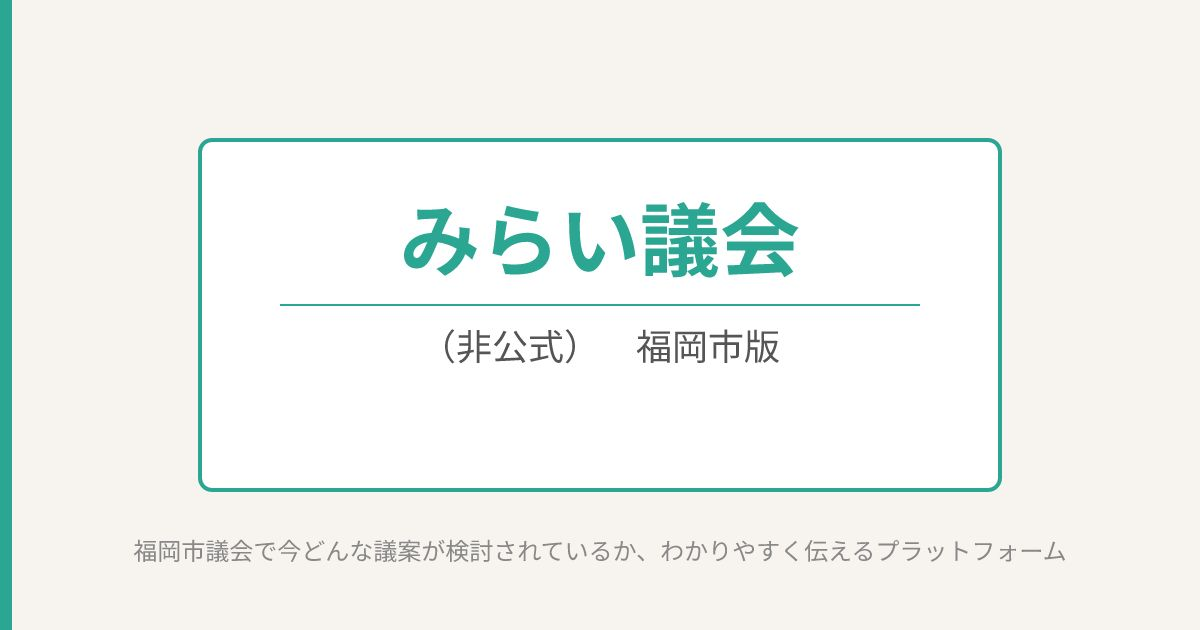
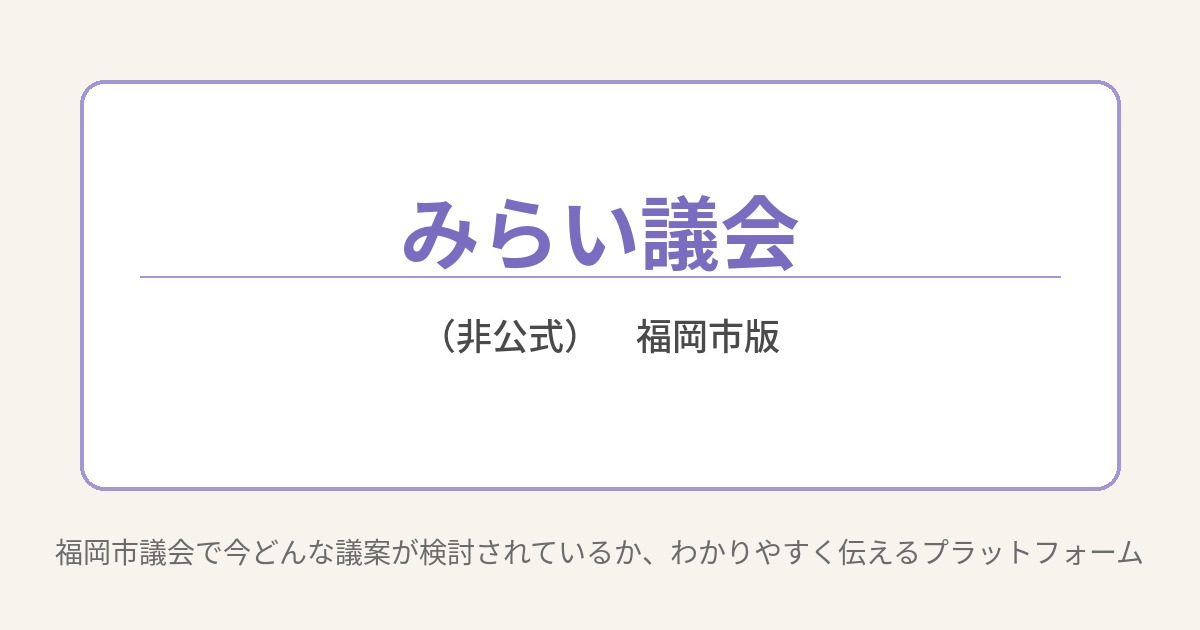
feat: OGP画像・テーマカラーをチームみらい緑から薄紫に変更
- ogp.jpg をサイトのベースカラー（#a495d6）で再生成
- layout.tsx の themeColor・NextTopLoader を #2aa693 → #a495d6 に統一

diff --git a/web/src/app/layout.tsx b/web/src/app/layout.tsx
@@ -64,7 +64,7 @@ export const viewport: Viewport = {
   width: "device-width",
   initialScale: 1,
   maximumScale: 1,
-  themeColor: "#2aa693",
+  themeColor: "#a495d6",
 };
 
 export default function RootLayout({
@@ -77,7 +77,7 @@ export default function RootLayout({
       <body
         className={`${notoSansJP.variable} ${lexendGiga.variable} font-sans antialiased bg-mirai-surface-light`}
       >
-        <NextTopLoader showSpinner={false} color="#2aa693" />
+        <NextTopLoader showSpinner={false} color="#a495d6" />
         {children}
       </body>
     </html>
